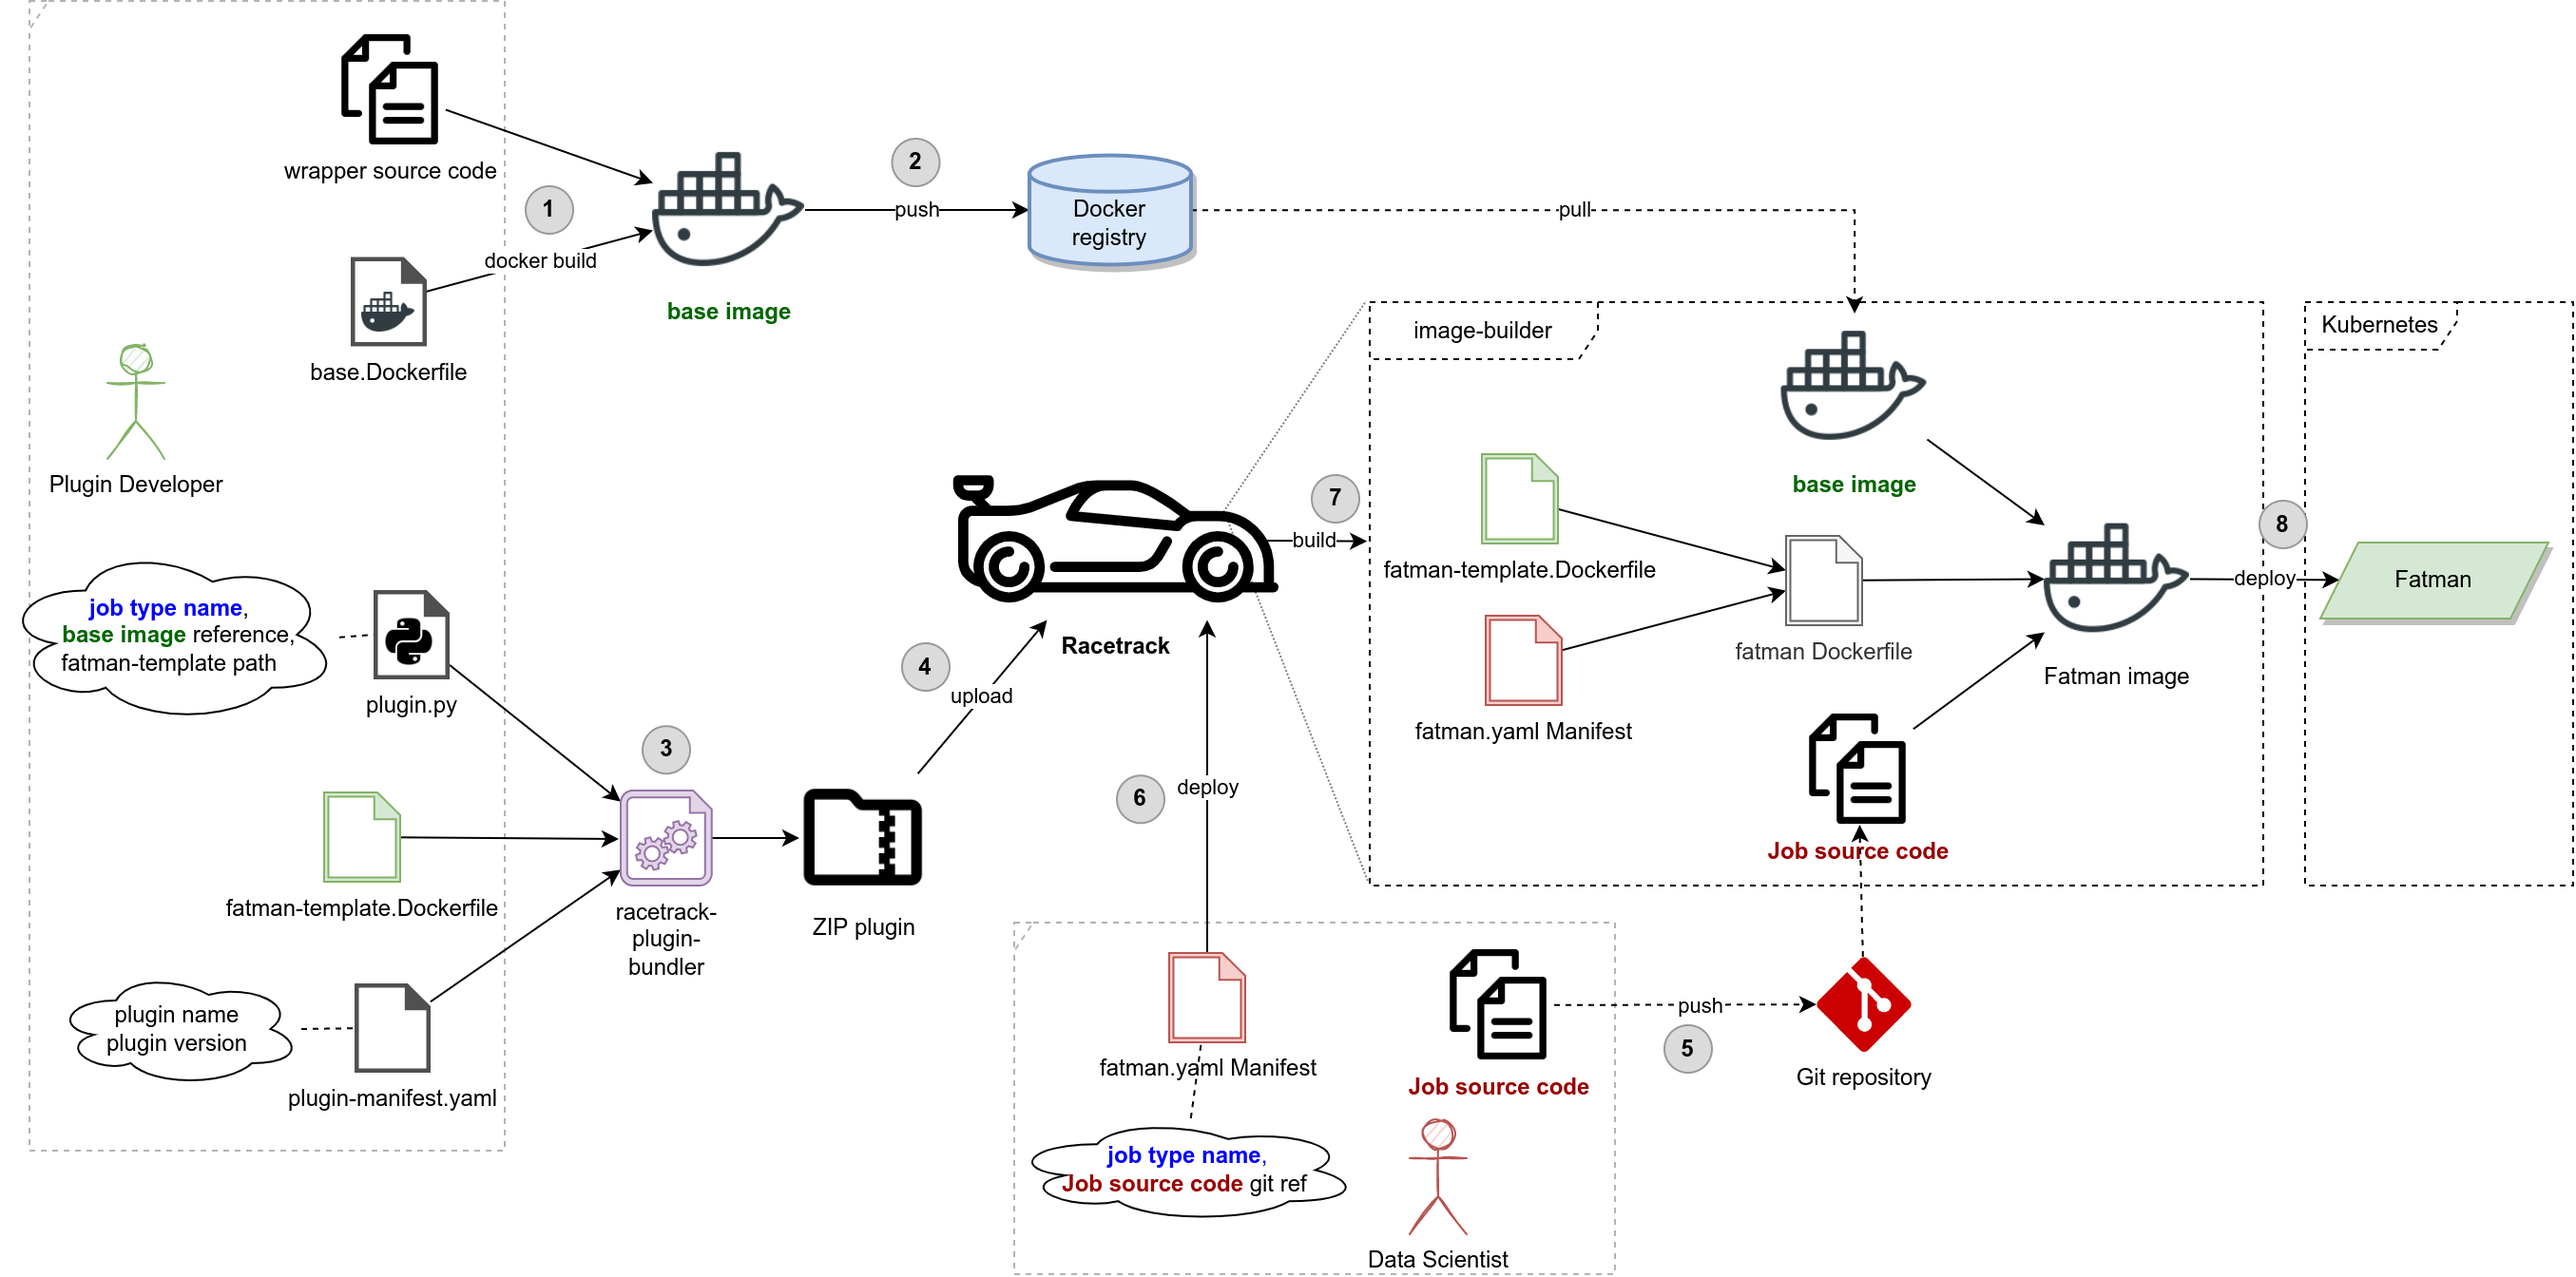
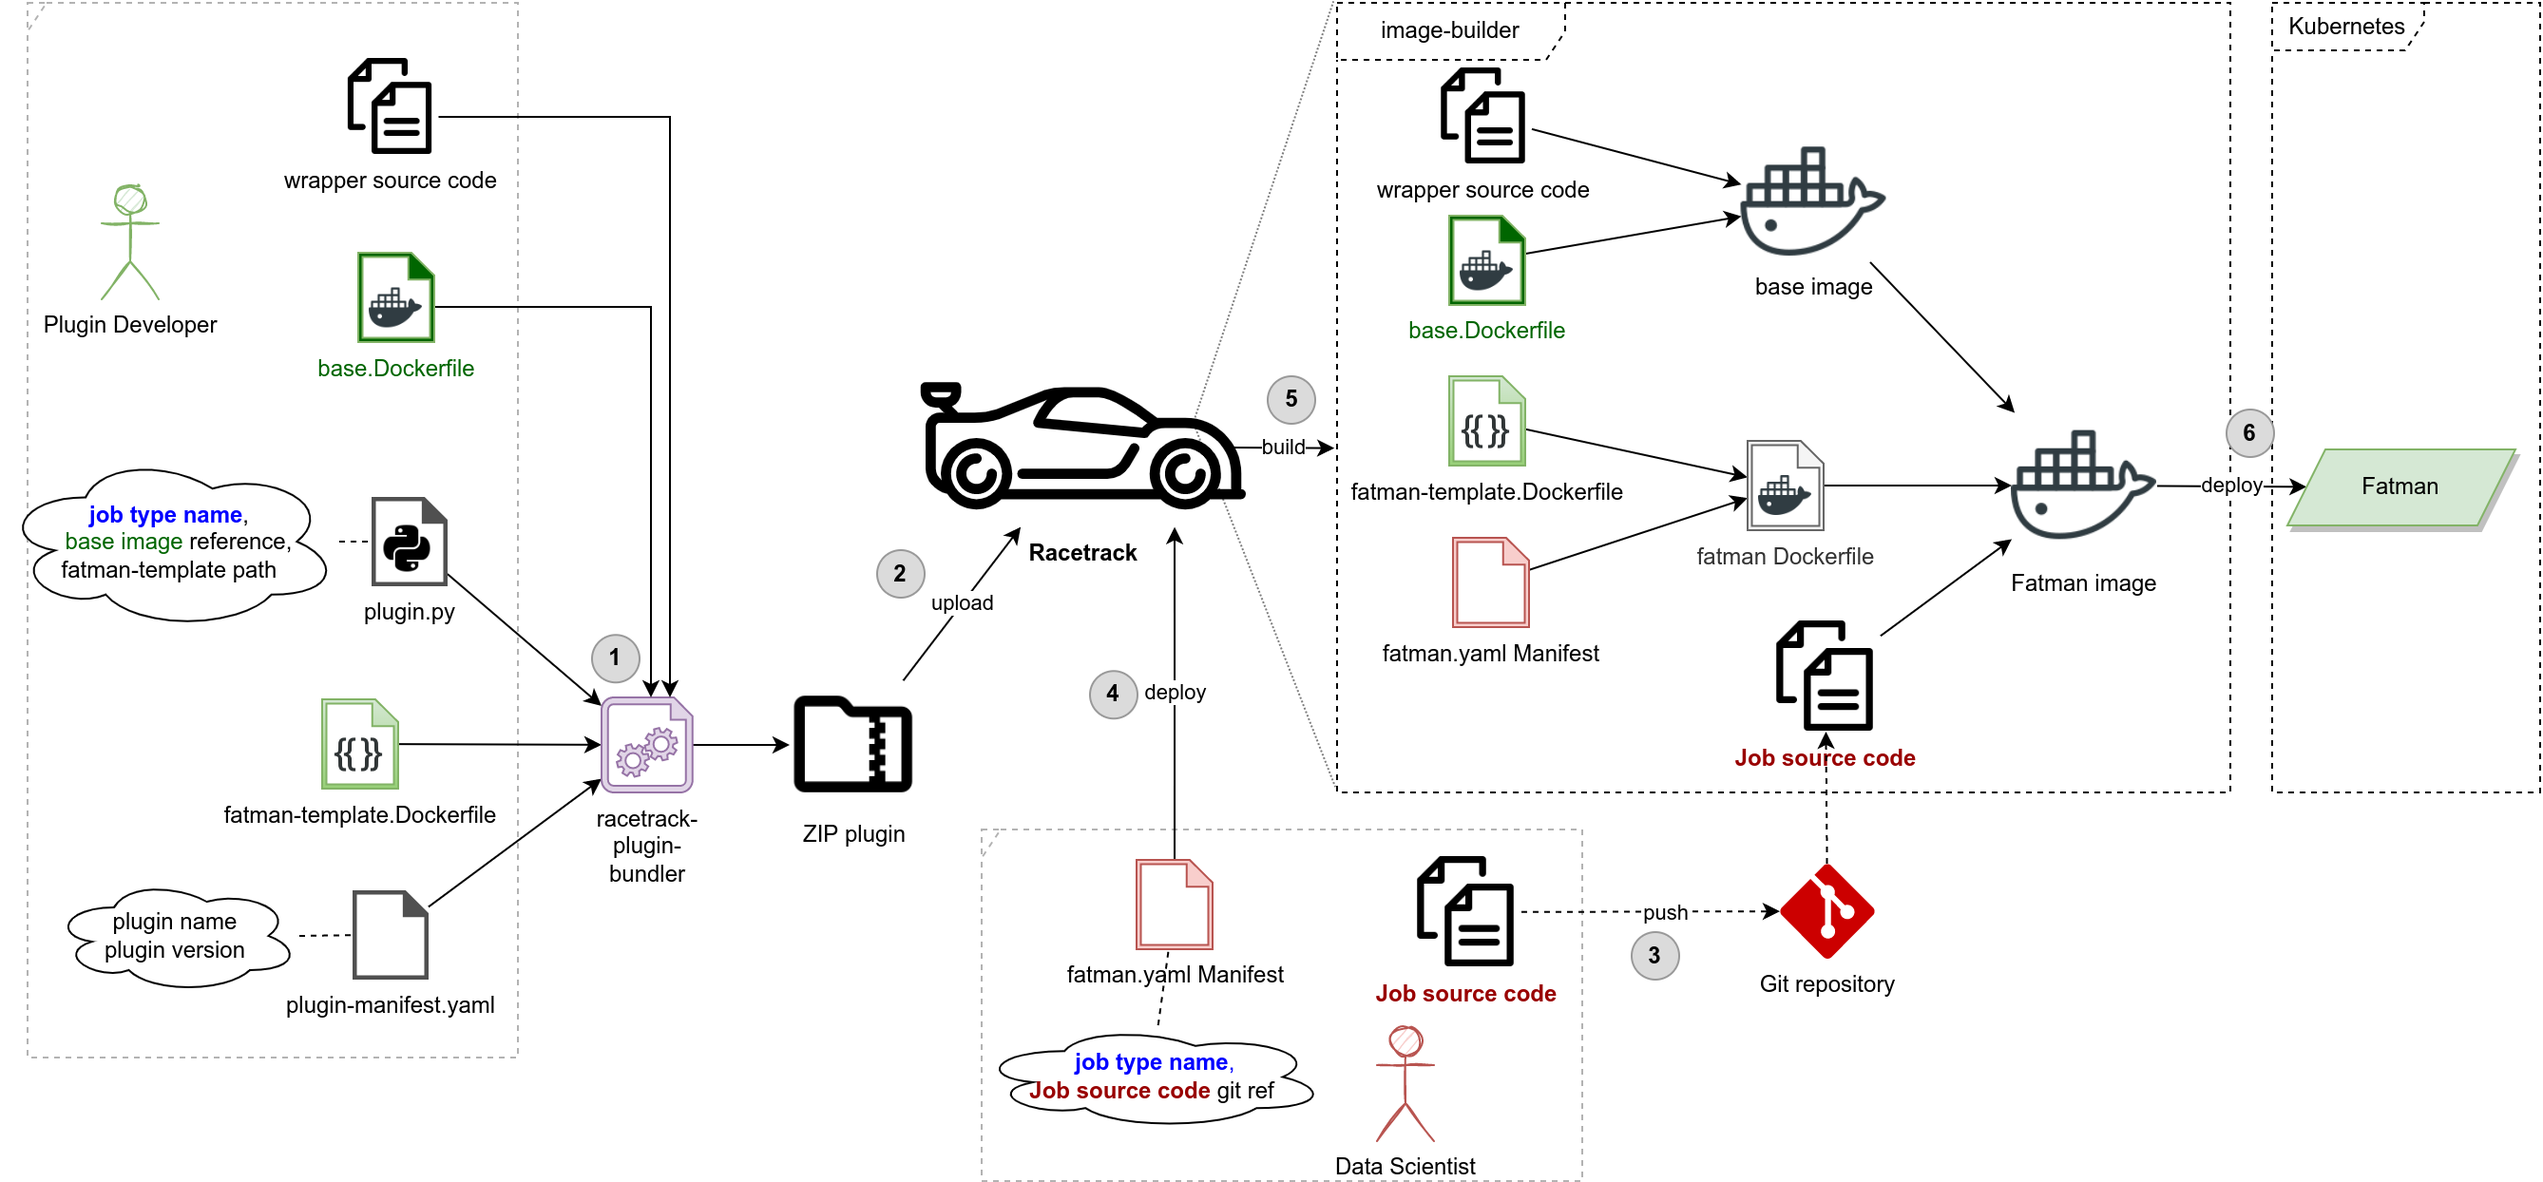
Simplify job type plugins flow

diff --git a/docs/development/plugins-job-types.md b/docs/development/plugins-job-types.md
@@ -10,18 +10,16 @@ and used by others to deploy fatmen workloads:
 
 ![Job Type Plugins](../assets/job-type-plugins.png)
 
-1. **Plugin Developer** writes the source code of a wrapper + base.Dockerfile,
-  and builds the base image.
-2. He pushes the base image to the Docker registry.
-3. He creates plugin code, fatman template Dockerfile and plugin Manifest.
+1. **Plugin Developer** writes the source code of a wrapper and base.Dockerfile.
+  He creates plugin code, fatman template Dockerfile and plugin Manifest.
   Next, he turns it into a ZIP plugin using `racetrack-plugin-bundler`.
-4. He uploads the plugin to the Racetrack.
-5. **Data Scientist** writes the source code of his Job and pushes it to a Git repository.
-6. He creates fatman.yaml Manifest (including job type name and reference to a git repository)
+2. He uploads the plugin to the Racetrack.
+3. **Data Scientist** writes the source code of his Job and pushes it to a Git repository.
+4. He creates fatman.yaml Manifest (including job type name and reference to a git repository)
   and starts a deployment using racetrack client.
-7. Racetrack builds the Fatman image made of templated fatman Dockerfile,
-  pulled base image (referred to by a plugin) and Job source code pulled from git.
-8. Racetrack creates Kubernetes resources for the Fatman workload.
+5. Racetrack builds the base image and the Fatman image made of templated fatman Dockerfile
+  and the Job source code pulled from git.
+6. Racetrack creates Kubernetes resources for the Fatman workload.
 
 ## How to create a job-type plugin
 
